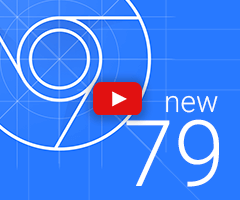
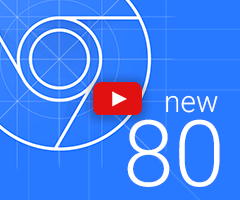
DevTools: Update What's New for Chrome 80
Bug: 986998
Commit-Queue: Yang Guo <yangguo@chromium.org>
Auto-Submit: Kayce Basques <kayce@google.com>

Changed region(s): [[0.525, 0.57, 0.9333, 0.96]]

diff --git a/front_end/help/ReleaseNoteText.js b/front_end/help/ReleaseNoteText.js
@@ -12,7 +12,40 @@ const commandMenuShortcut = Host.isMac() ? 'Command+Shift+P' : 'Control+Shift+P'
 
 /** @type {!Array<!Help.ReleaseNote>} */
 export const releaseNoteText = [
-
+  {
+    version: 22,
+    header: 'Highlights from the Chrome 80 update',
+    highlights: [
+      {
+        title: 'Support for let and class redeclarations',
+        subtitle:
+            'When experimenting with new code in the Console, repeating let or class declarations no longer causes errors.',
+        link: 'https://developers.google.com/web/updates/2019/12/devtools#redeclarations',
+      },
+      {
+        title: 'Improved WebAssembly debugging',
+        subtitle:
+            'The Sources panel has increased support for stepping over code, setting breakpoints, and resolving stack traces in source languages.',
+        link: 'https://developers.google.com/web/updates/2019/12/devtools#webassembly',
+      },
+      {
+        title: 'Network panel updates',
+        subtitle: 'View request initiator chains, highlight requests in the Overview, and more.',
+        link: 'https://developers.google.com/web/updates/2019/12/devtools#network',
+      },
+      {
+        title: 'Audits panel updates',
+        subtitle: 'The redesigned configuration UI has simplified throttling options.',
+        link: 'https://developers.google.com/web/updates/2019/12/devtools#audits',
+      },
+      {
+        title: 'Coverage tab updates',
+        subtitle: 'Choose per-function or per-block coverage, and more.',
+        link: 'https://developers.google.com/web/updates/2019/12/devtools#coverage',
+      },
+    ],
+    link: 'https://developers.google.com/web/updates/2019/12/devtools',
+  },
   {
     version: 21,
     header: 'Highlights from the Chrome 79 update',
